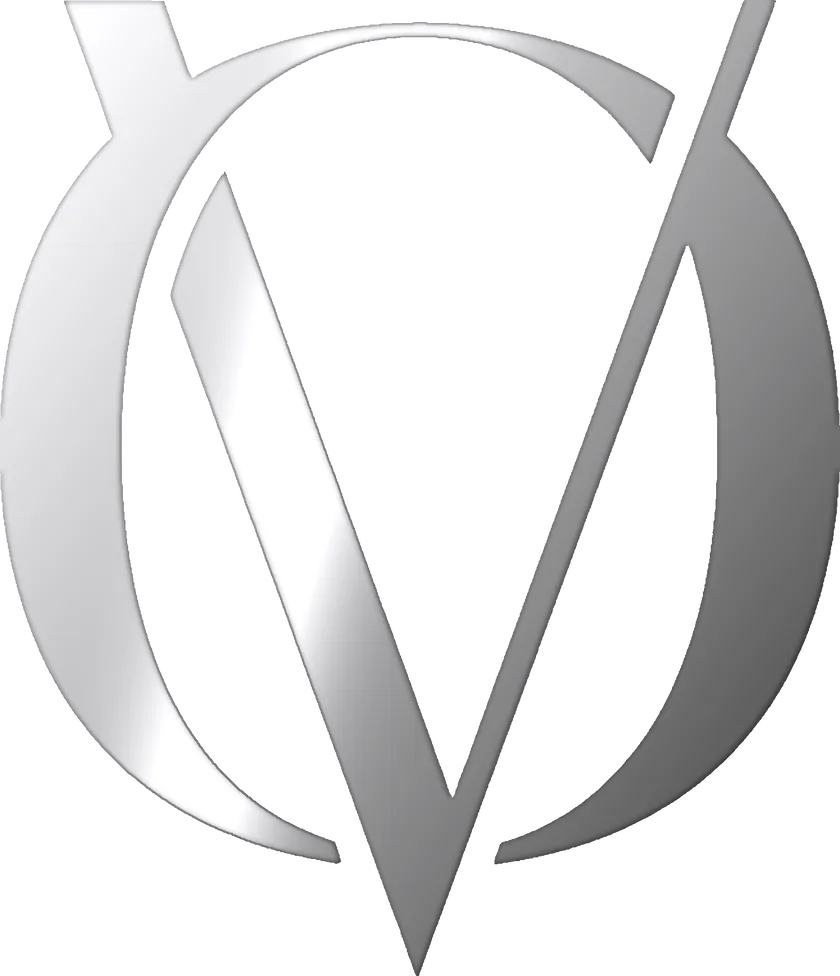
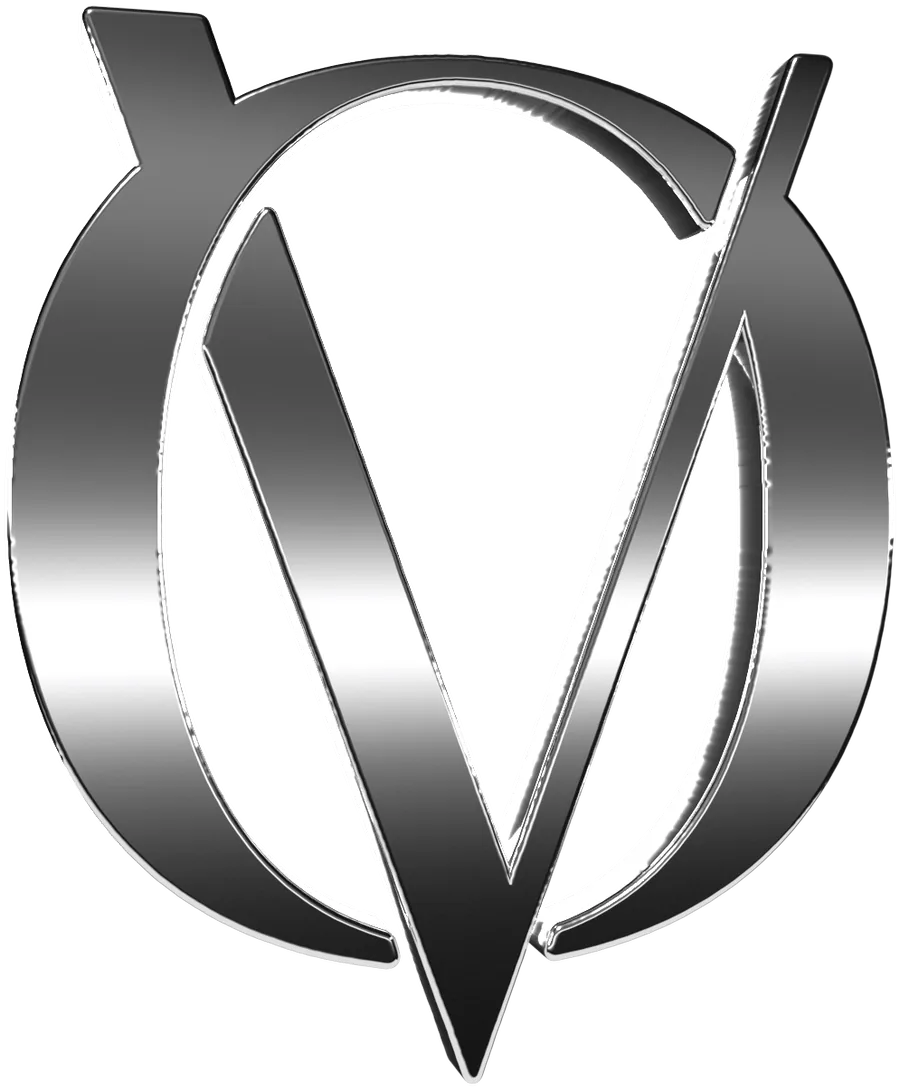
Put the real chrome VO on the right of the desktop hero.
The lockup stays two lines with the proof on one line, and phones keep loading a small WebP so the mobile Lighthouse score stays at 96.

diff --git a/app/page.tsx b/app/page.tsx
@@ -208,27 +208,31 @@ export default function Home() {
       />
       <Nav />
 
-      {/* HERO — banner lockup. One display line, two supporting lines, chrome VO.
-          The UGC agency phrase stays inside the H1. Phone mock is not in the hero.
-          See docs/DECISIONS.md (topic: brand-system-2026-10). */}
-      <section className="relative flex min-h-[100svh] items-center overflow-hidden pt-32 pb-20">
+      {/* HERO — banner lockup. Headline is exactly two lines (make them /
+          remember.). Chrome VO sits on the right from lg up. The UGC agency
+          phrase stays inside the H1. See docs/DECISIONS.md
+          (topic: brand-system-2026-10). */}
+      <section className="relative flex min-h-[100svh] items-center pt-28 pb-16">
         <div className={`relative z-10 ${NAV_CONTAINER} mx-auto ${NAV_INNER_PADDING}`}>
-          <div className="grid items-center gap-12 lg:grid-cols-[minmax(0,1.15fr)_minmax(200px,0.85fr)] lg:gap-8">
-            <div className="max-w-[18em]">
+          <div className="grid items-center gap-10 lg:grid-cols-[minmax(0,1fr)_380px] lg:gap-8">
+            <div className="min-w-0">
               <h1>
-                <span className="mb-6 block font-sans text-[clamp(15px,1.7vw,22px)] font-medium leading-[1.3] tracking-[-0.006em] text-[#efefed]">
+                <span className="mb-6 block max-w-[36rem] font-sans text-[clamp(15px,1.6vw,22px)] font-medium leading-[1.3] tracking-[-0.006em] text-[#efefed]">
                   The in-house UGC agency backed by elite mentorship
                 </span>
-                <span className="block font-display text-[clamp(52px,7.4vw,104px)] font-extrabold leading-[0.9] tracking-[-0.045em] text-[#fbfbf9] [word-spacing:0.05em]">
-                  ma<span style={{ letterSpacing: "0.012em" }}>k</span>e the<span style={{ letterSpacing: "-0.044em" }}>m</span>
-                  <br />
-                  remembe<span style={{ letterSpacing: "-0.075em" }}>r</span>
-                  <span className="text-[#bdbdb8]">.</span>
+                <span className="block font-display text-[clamp(44px,5.6vw,88px)] font-extrabold leading-[0.9] tracking-[-0.045em] text-[#fbfbf9] [word-spacing:0.05em]">
+                  <span className="block whitespace-nowrap">
+                    ma<span style={{ letterSpacing: "0.012em" }}>k</span>e the<span style={{ letterSpacing: "-0.044em" }}>m</span>
+                  </span>
+                  <span className="block whitespace-nowrap">
+                    remembe<span style={{ letterSpacing: "-0.075em" }}>r</span>
+                    <span className="text-[#bdbdb8]">.</span>
+                  </span>
                 </span>
               </h1>
               <div className="mt-8 flex items-center gap-4">
                 <span className="h-px w-10 shrink-0 bg-[#8a8a86]" aria-hidden="true" />
-                <p className="font-sans text-[clamp(16px,1.7vw,22px)] font-medium leading-[1.3] text-[#efefed]">
+                <p className="whitespace-nowrap font-sans text-[clamp(16px,1.5vw,22px)] font-medium leading-[1.3] text-[#efefed]">
                   The team behind <b className="font-bold text-white">1B+</b> views
                 </p>
               </div>
@@ -250,14 +254,23 @@ export default function Home() {
               </div>
             </div>
             <div className="flex justify-center lg:justify-end">
-              <Image
-                src="/brand/vo-chrome.webp"
-                alt=""
-                width={840}
-                height={976}
-                sizes="(max-width: 1024px) 52vw, 380px"
-                className="h-auto w-[min(52vw,220px)] drop-shadow-[0_24px_36px_rgba(0,0,0,0.73)] lg:w-[min(34vw,380px)]"
-              />
+              {/* Static picture, not next/image: the optimizer's JPEG fallback
+                  mats the alpha to black. Lazy so the mark stays off the
+                  phone's high-priority path. See docs/DECISIONS.md
+                  (topic: brand-system-2026-10). */}
+              <picture>
+                <source media="(min-width: 1024px)" srcSet="/brand/vo-chrome.avif" type="image/avif" />
+                <source media="(min-width: 1024px)" srcSet="/brand/vo-chrome.webp" type="image/webp" />
+                <img
+                  src="/brand/vo-chrome-sm.webp"
+                  alt=""
+                  width={900}
+                  height={1090}
+                  loading="lazy"
+                  decoding="async"
+                  className="h-auto w-[220px] drop-shadow-[0_24px_36px_rgba(0,0,0,0.73)] lg:w-[380px]"
+                />
+              </picture>
             </div>
           </div>
         </div>

diff --git a/docs/DECISIONS.md b/docs/DECISIONS.md
@@ -3130,3 +3130,11 @@ The homepage and shared chrome were restyled to the designer's LinkedIn banner. 
 - The chrome VO is `public/brand/vo-chrome.webp` (about 46KB) and `public/brand/vo-chrome.avif` (about 26KB, with alpha), served with `next/image`. The attached `mono8_crop.png` was not in the workspace, so the mark was shaded from the supplied `logo-hq.svg` (`public/brand/vo-logo.svg`) into a transparent silver render at 840px wide. The nav and footer use that SVG.
 - DarkVeil remains the silk behind the page, desaturated to white instead of cream. `VeilBackground` paints a static CSS silk always, and starts the WebGL loop only above 767px, without reduced motion, and only after idle. A tiled grain PNG at 12% opacity sits over that field.
 - `public/og-image.png` was regenerated at 1200×630 in the same lockup. The root Open Graph and Twitter images already pointed at that path.
+
+## topic: brand-system-2026-10 — _2026-10-19_
+
+The real `mono8_crop.png` arrived after the first restyle. It already had a transparent background, so it replaced the shaded SVG mark.
+
+- Exported at 900×1090: `public/brand/vo-chrome.webp` (about 83KB) and `public/brand/vo-chrome.avif` (about 36KB), both with alpha. Phones load `vo-chrome-sm.webp` (384px, about 18KB). The hero uses a `<picture>`, not `next/image`: without an AVIF/WebP Accept header the optimizer returned a JPEG and the transparent mark disappeared into the black field, and `decoding="async"` held the mobile LCP. The phone file is WebP, not AVIF. The img stays `loading="lazy"`, same as the mark that scored 96, so it is not fetched at high priority ahead of the type. Nav and footer still use `vo-logo.svg`.
+- Desktop hero is two columns inside the nav container: lockup on the left, 380px chrome on the right. Each headline line is `whitespace-nowrap`, so it stays "make them" / "remember." The proof line is nowrap too. The old `max-w-[18em]` column was what forced a third line.
+- Open Graph image regenerated with this render.

diff --git a/docs/SITE.md b/docs/SITE.md
@@ -27,8 +27,9 @@ only:
   Sitemap: `app/sitemap.ts`. `/campaigns/maxxd` is an existing page and is not
   linked from the sitemap, `llms.txt`, or the homepage.
 - Display type is Inter Tight and body type is Inter, both from `next/font`
-  in `app/layout.tsx`. The hero mark is `public/brand/vo-chrome.webp` (AVIF
-  sibling alongside it). `components/VeilBackground.tsx` keeps DarkVeil off
+  in `app/layout.tsx`. The hero mark is a `<picture>`:
+  `public/brand/vo-chrome.avif` from 1024px up, `vo-chrome-sm.webp` below that.
+  `components/VeilBackground.tsx` keeps DarkVeil off
   small screens and reduced motion. Open Graph image is `public/og-image.png`.
 - `app/api/stripe-webhook` — Stripe payment events → Slack (#ka-ching).
 - `app/api/mercury-webhook` — Mercury bank events → Slack (#ka-ching), incoming only.
